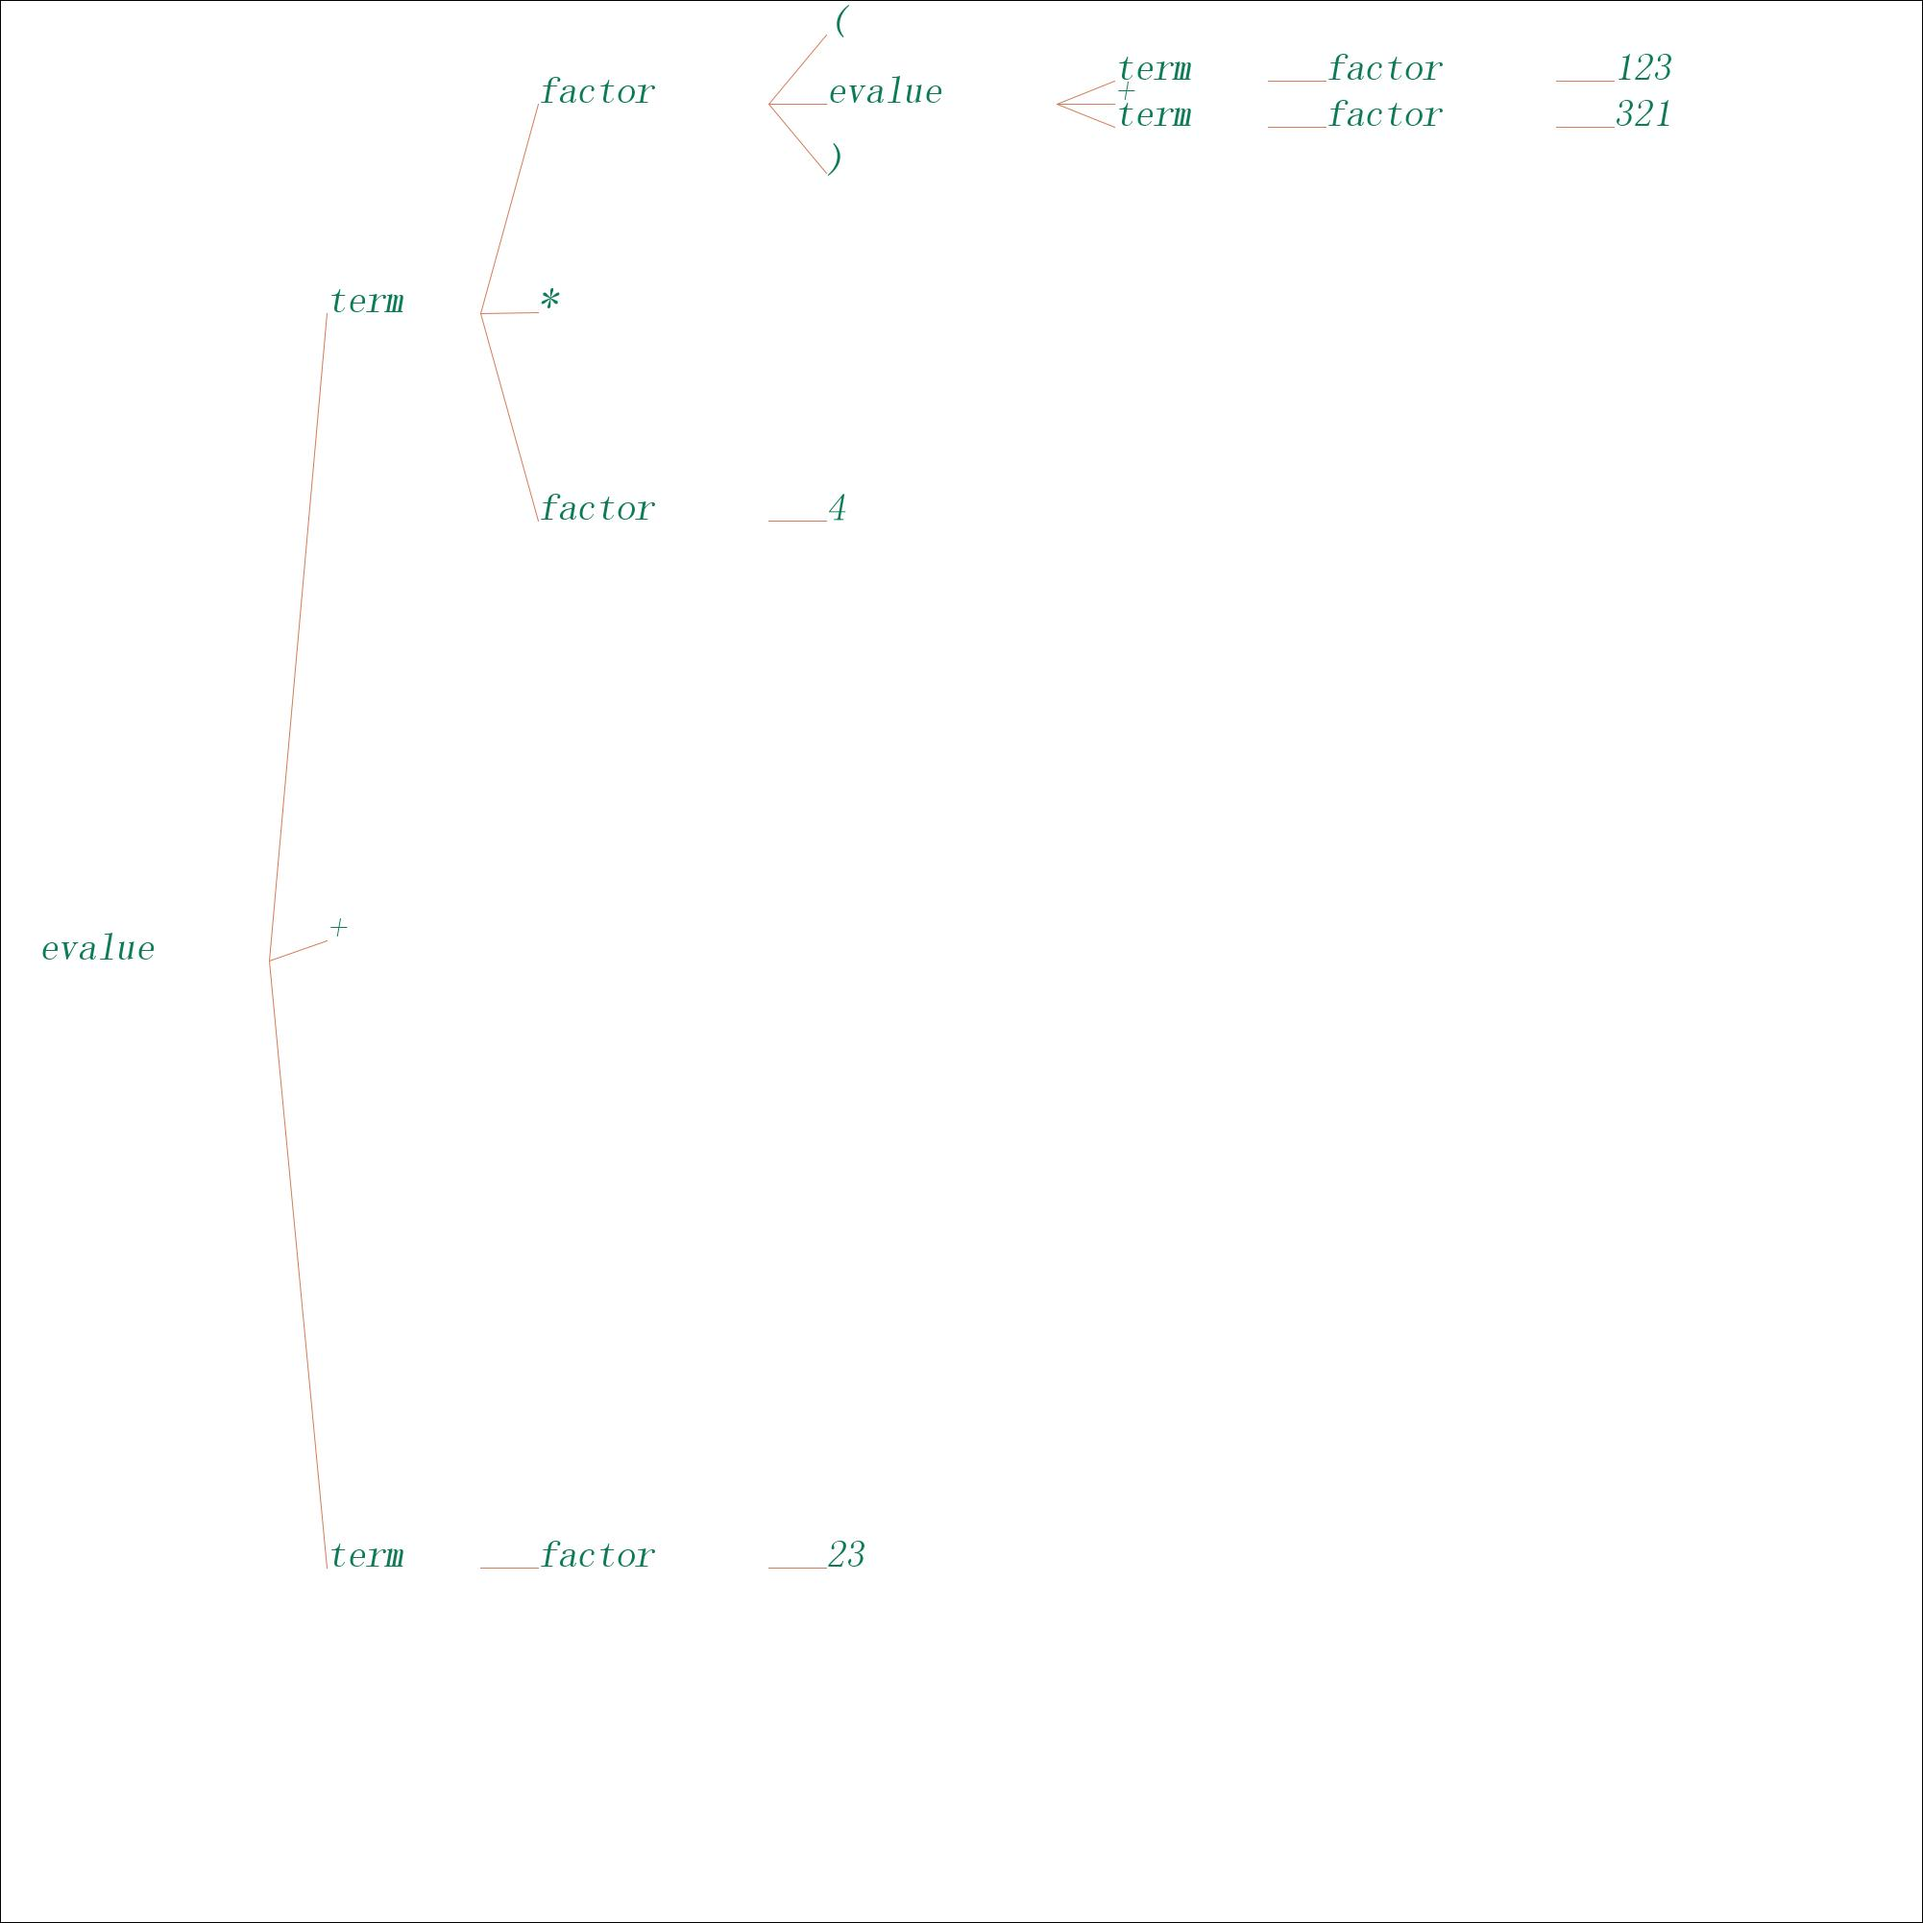
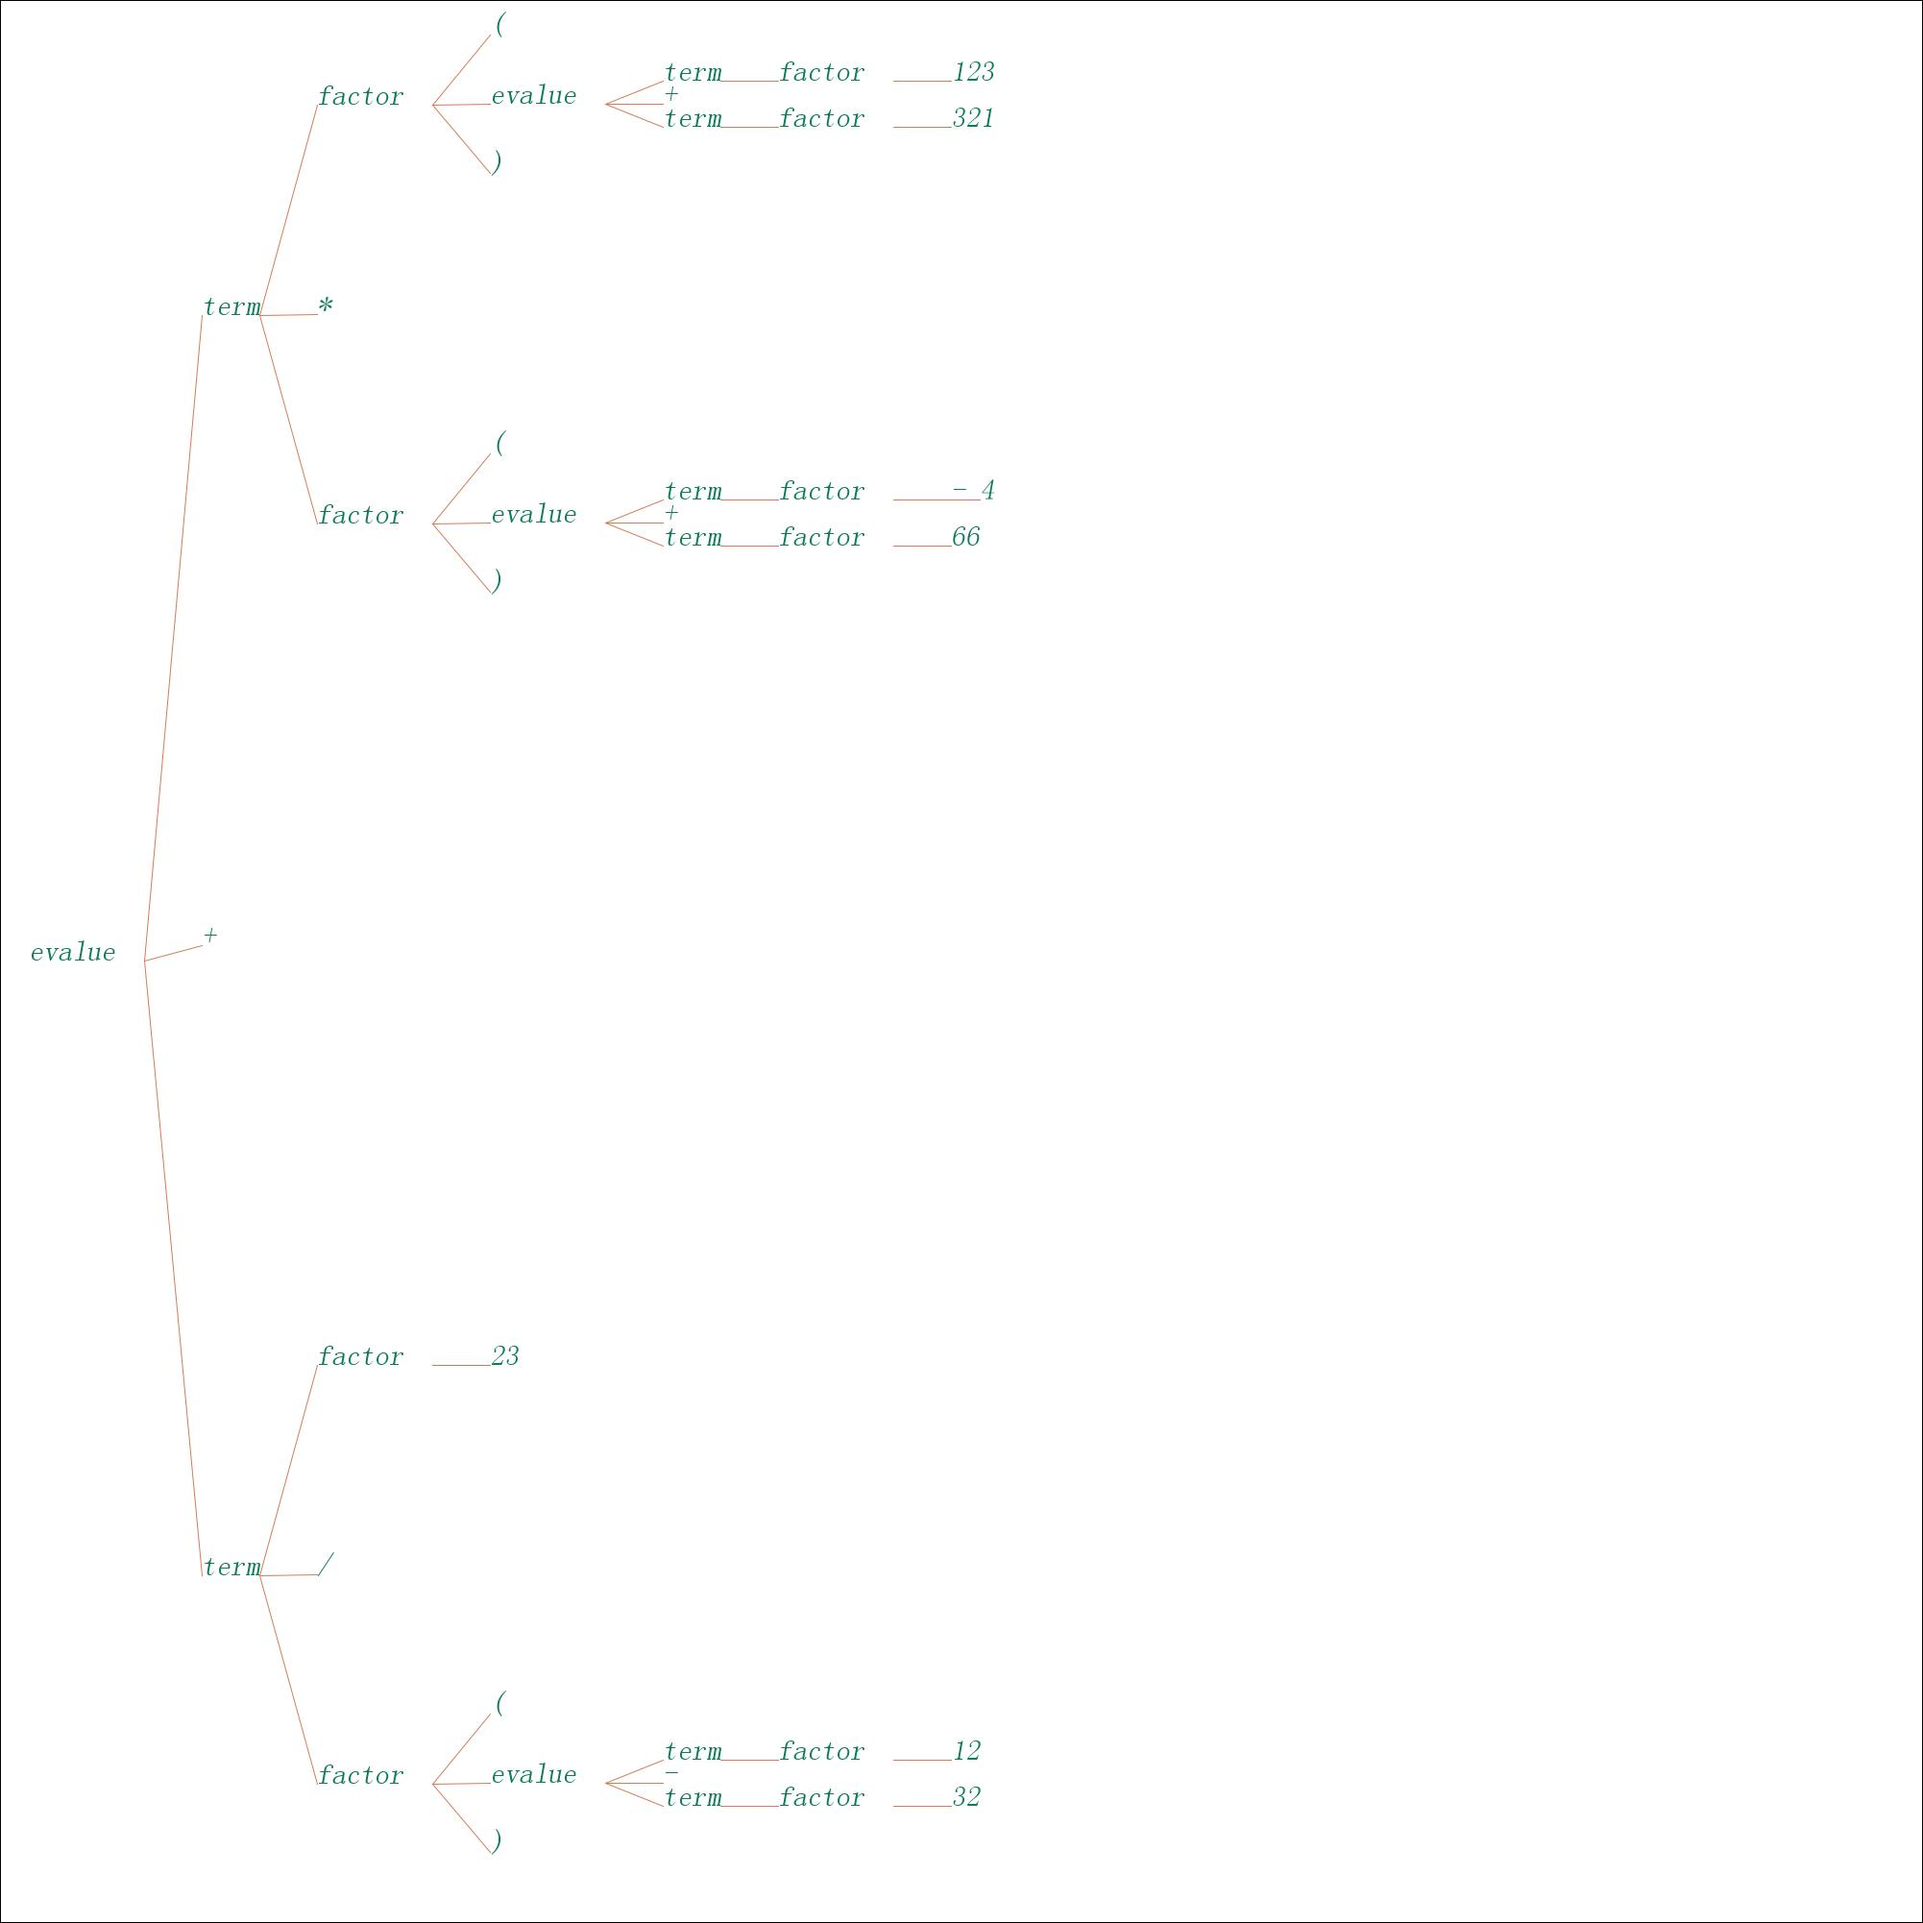
add dynamic show

diff --git a/src/com/company/TreeNode.java b/src/com/company/TreeNode.java
@@ -19,7 +19,7 @@ public class TreeNode {
 
     static final int WIDTH = 2000;
     static final int HEIGHT = 2000;
-    static final int FONTSIZE = 40;
+    static final int FONTSIZE = 30;
 
     public TreeNode(String val) {
         this.val = val;
@@ -54,11 +54,20 @@ public class TreeNode {
         BufferedImage bimg = new BufferedImage(WIDTH + 2, HEIGHT + 2, BufferedImage.TYPE_INT_BGR);
         // 拿到画笔
         Graphics2D g = bimg.createGraphics();
+        drawTree(g, treeNode, rootName, HEIGHT, WIDTH,"");
+        // 将画好的图片通过流形式写到硬盘上
+        boolean val = false;
+        try {
+            val = ImageIO.write(bimg, picType, file);
+        } catch (IOException e) {
+            e.printStackTrace();
+        }
+    }
+
+    public static void drawTree(Graphics2D g, TreeNode treeNode, String rootName, int imgHeight, int imgWidth, String info) {
+        g.setColor(Color.WHITE);
         // 画一个图形系统默认是白色
-        int imgHeight = HEIGHT;
-        g.fillRect(1, 1, WIDTH, imgHeight);
-        // 设置画笔颜色
-        g.setColor(new Color(12, 123, 88));
+        g.fillRect(1, 1, imgWidth, imgHeight);
         int fontSize = FONTSIZE;
         // 设置画笔画出的字体风格
         g.setFont(new Font("隶书", Font.ITALIC, fontSize));
@@ -67,11 +76,21 @@ public class TreeNode {
         g.setRenderingHint(RenderingHints.KEY_TEXT_ANTIALIASING, RenderingHints.VALUE_TEXT_ANTIALIAS_ON);
         //消除画图锯齿
         g.setRenderingHint(RenderingHints.KEY_ANTIALIASING, RenderingHints.VALUE_ANTIALIAS_ON);
+
+        g.setColor(new Color(0, 0, 200));
+        g.drawString(info, fontSize, 50);
+        // 设置画笔颜色
+        g.setColor(new Color(12, 123, 88));
+
         // 写一个字符串
-        int margin = 60;
+        int margin = 0;
         int parentY = imgHeight / 2;
         g.drawString(rootName, fontSize, parentY);
         int parentX = computeParentX(rootName, fontSize, fontSize);
+        if (treeNode.child.size() == 0) {
+            g.dispose();
+            return;
+        }
         int heightL2 = (imgHeight - fontSize) / treeNode.child.size();
         for (int i = 0; i < treeNode.child.size(); i++) {
             TreeNode shareHolderDto = treeNode.child.get(i);
@@ -82,7 +101,7 @@ public class TreeNode {
             // g.drawString("注册资本：" + (shareHolderDto.getRegCapital() == null?"-":shareHolderDto.getRegCapital()), parentX + margin, height + heightL2 * i + fontSize);
             // 设置画笔颜色
             g.setColor(new Color(212, 123, 88));
-            g.drawLine(parentX, parentY, parentX + margin, height + heightL2 * i);
+            g.drawLine(parentX-60, parentY, parentX + margin, height + heightL2 * i);
             // 设置画笔颜色
             g.setColor(new Color(12, 123, 88));
             if (shareHolderDto.child != null && !shareHolderDto.child.isEmpty()) {
@@ -92,13 +111,6 @@ public class TreeNode {
         }
         // 释放画笔
         g.dispose();
-        // 将画好的图片通过流形式写到硬盘上
-        boolean val = false;
-        try {
-            val = ImageIO.write(bimg, picType, file);
-        } catch (IOException e) {
-            e.printStackTrace();
-        }
     }
 
     /**
@@ -123,7 +135,7 @@ public class TreeNode {
             g.drawString(name, x, y);
             // 设置画笔颜色
             g.setColor(new Color(212, 123, 88));
-            g.drawLine(parentX, parentY, x, y);
+            g.drawLine(parentX-60, parentY, x, y);
             // 设置画笔颜色
             g.setColor(new Color(12, 123, 88));
             if (shareHolderDto.child != null && !shareHolderDto.child.isEmpty()) {

diff --git a/src/com/company/AlgoFrame.java b/src/com/company/AlgoFrame.java
@@ -1,0 +1,96 @@
+package com.company;
+
+import java.awt.*;
+import javax.swing.*;
+import java.awt.geom.Ellipse2D;
+import java.io.File;
+import java.io.FileInputStream;
+import java.io.FileNotFoundException;
+import java.io.InputStreamReader;
+import java.util.Arrays;
+
+import static com.company.Main.filename;
+import static com.company.Util.readSrc;
+
+public class AlgoFrame extends JFrame {
+
+    private int canvasWidth;
+    private int canvasHeight;
+    TreeNode treeNode;
+    String info;
+
+    public AlgoFrame(String title, int canvasWidth, int canvasHeight, TreeNode treeNode, String info) {
+
+        super(title);
+
+        this.canvasWidth = canvasWidth;
+        this.canvasHeight = canvasHeight;
+        this.treeNode = treeNode;
+        this.info = info;
+
+        AlgoCanvas canvas = new AlgoCanvas();
+        setContentPane(canvas);
+        pack();
+
+        setDefaultCloseOperation(JFrame.EXIT_ON_CLOSE);
+        setResizable(false);
+
+        setVisible(true);
+    }
+
+    public AlgoFrame(String title, TreeNode treeNode, String info) {
+        this(title, 1024, 768, treeNode, info);
+    }
+
+    public int getCanvasWidth() {
+        return canvasWidth;
+    }
+
+    public int getCanvasHeight() {
+        return canvasHeight;
+    }
+
+
+    private class AlgoCanvas extends JPanel {
+        @Override
+        public void paintComponent(Graphics g) {
+            super.paintComponent(g);
+
+            Graphics2D g2d = (Graphics2D) g;//强制类型转换
+            TreeNode.drawTree(g2d, treeNode, "evalue", canvasHeight, canvasWidth, info);
+        }
+
+        @Override
+        public Dimension getPreferredSize() {
+            return new Dimension(canvasWidth, canvasHeight);
+        }
+    }
+
+    public static void main(String[] args) throws FileNotFoundException {
+        File file = new File(filename);
+        Expression e = new Expression(new FileInputStream(file));
+        String str = readSrc(filename);
+        TreeNode treeNode = new TreeNode("evalue");
+        AlgoFrame algoFrame = new AlgoFrame("", 1800, 1000, treeNode, str);
+        new Thread(new Runnable() {
+            public void run() {
+                try {
+                    while (true) {
+                        algoFrame.repaint();
+                        Thread.sleep(100);
+                    }
+                } catch (InterruptedException e) {
+                    e.printStackTrace();
+                }
+            }
+        }).start();
+
+        try {
+            System.out.println(e.evalue(treeNode.child));
+            System.out.println(treeNode);
+        } catch (Exception err) {
+            System.out.println(err);
+            System.out.println(treeNode);
+        }
+    }
+}

diff --git a/src/com/company/Expression.java b/src/com/company/Expression.java
@@ -15,13 +15,15 @@ import java.util.Stack;
 
 public class Expression {
     public InputTokenStream ts;
+    int delay_time = 500;
 
     public Expression(InputStream in) {
         ts = new InputTokenStream(new BufferedInputStream(in));
     }
 
     // expr := term (+|-) term (+|-) ... (+|-) term
-    public int evalue(Stack<TreeNode> treeNodeList) throws IOException {
+    public int evalue(Stack<TreeNode> treeNodeList) throws IOException, InterruptedException {
+        Thread.sleep(delay_time);
         treeNodeList.push(new TreeNode("term"));
         int t = term(treeNodeList.peek().child);
         Token op = ts.getToken();
@@ -45,7 +47,8 @@ public class Expression {
     }
 
     // term := factor (*|/) factor (* | /) ... (*|/) factor
-    private int term(Stack<TreeNode> treeNodeList) throws IOException {
+    private int term(Stack<TreeNode> treeNodeList) throws IOException, InterruptedException {
+        Thread.sleep(delay_time);
         treeNodeList.push(new TreeNode("factor"));
         int t = factor(treeNodeList.peek().child);
         Token op = ts.getToken();
@@ -69,7 +72,8 @@ public class Expression {
     }
 
     // factor := INT | "(" expr ")"
-    private int factor(Stack<TreeNode> treeNodeList) throws IOException {
+    private int factor(Stack<TreeNode> treeNodeList) throws IOException, InterruptedException {
+        Thread.sleep(delay_time);
         Token t = ts.getToken();
         if (t.tokenType == Token.TokenType.INT) {
             ts.consumeToken();

diff --git a/src/com/company/Main.java b/src/com/company/Main.java
@@ -3,7 +3,6 @@ package com.company;
 import java.io.File;
 import java.io.FileInputStream;
 import java.io.FileNotFoundException;
-import java.io.IOException;
 
 public class Main {
     static final String filename = "test";
@@ -11,6 +10,7 @@ public class Main {
     public static void main(String[] args) throws FileNotFoundException {
         File file = new File(filename);
         Expression e = new Expression(new FileInputStream(file));
+        e.delay_time = 0;
 //        Expression e = new Expression(System.in);
         TreeNode treeNode = new TreeNode("evalue");
         try {
